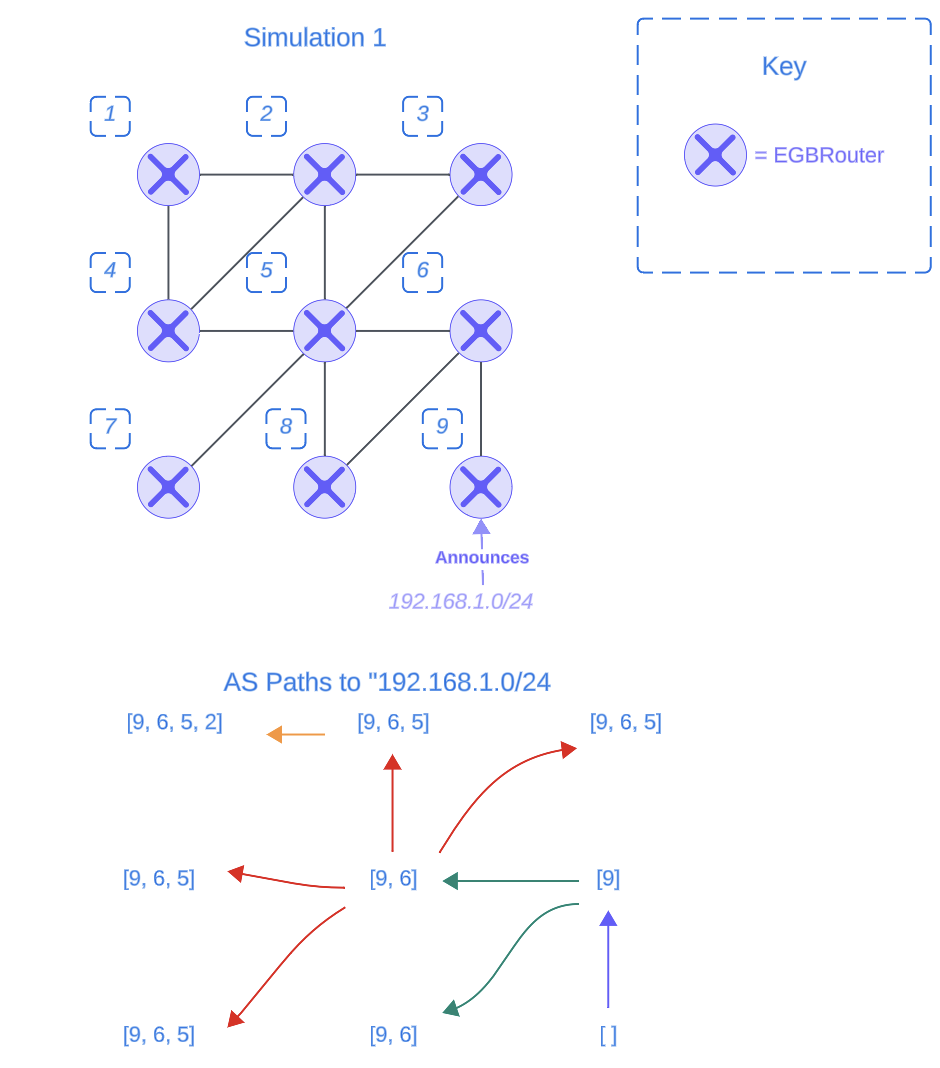
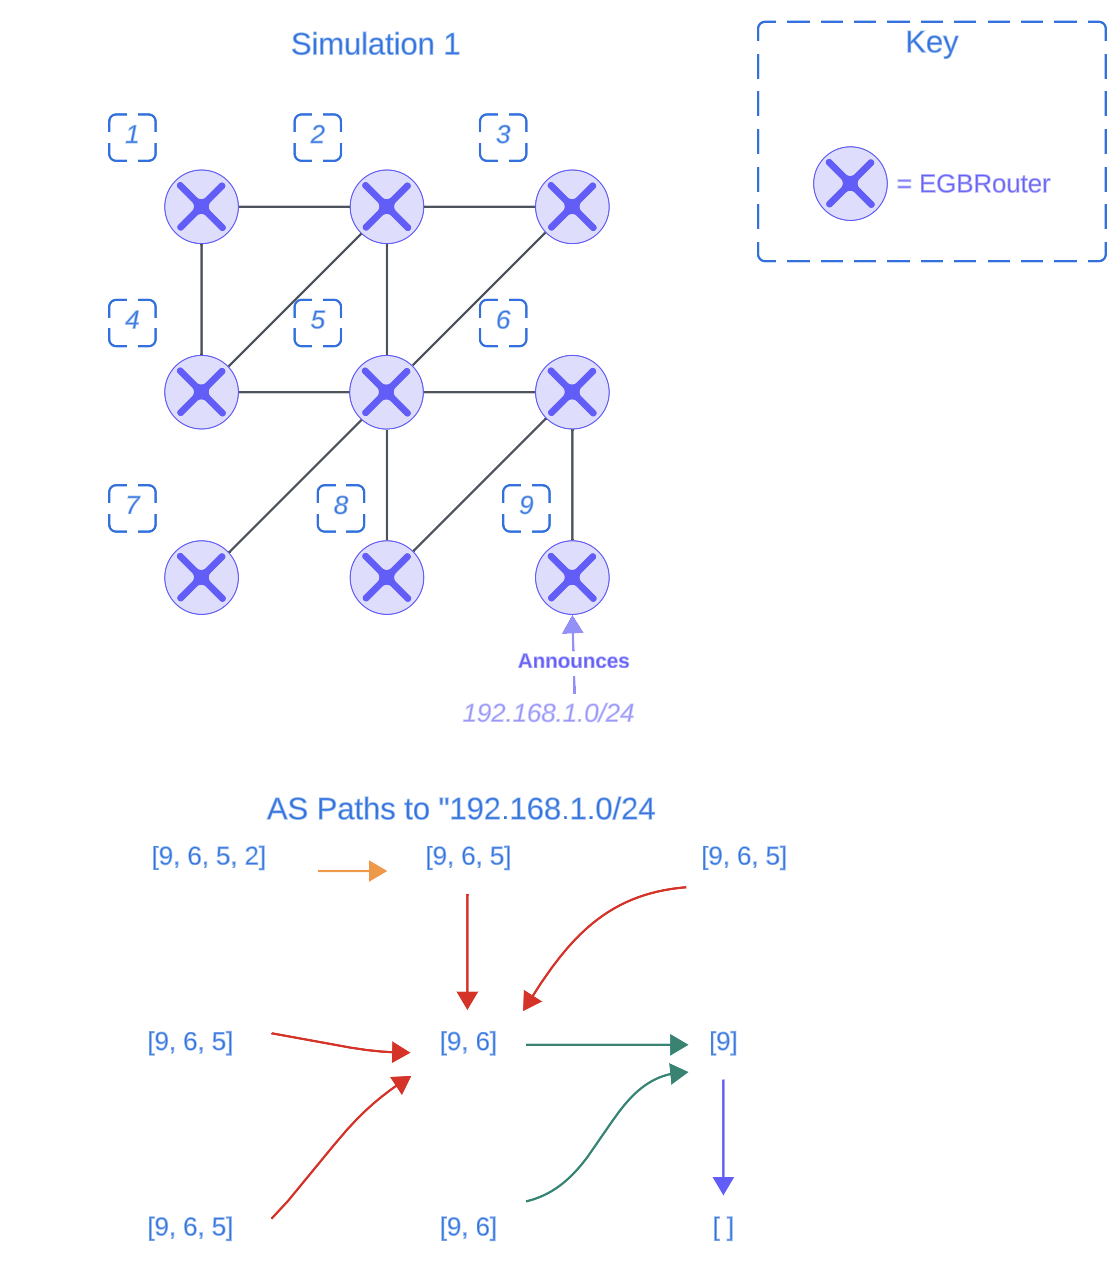
added simulation 2

diff --git a/simulations/sim2.py b/simulations/sim2.py
@@ -2,10 +2,10 @@ from .simulation import *
 from router import *
 import sys
 
-def sim1():
+def sim2():
     """
-    Simulation 1:
-        Three regular routers talk to each other.
+    Simulation 2:
+        Malicious router hijacks route. This simulation is related to sim1.py
     """
     router1 = EBGPRouter('localhost', 1, 5001)
     router2 = EBGPRouter('localhost', 2, 5002)
@@ -50,6 +50,7 @@ def sim1():
     router8.start()
     router9.start()
     router9.advertise_route("192.168.1.0/24")
+    router5.advertise_route("192.168.1.0/24")  # < Malicious Announcement
     print("AS 1:", router1.routing_table["192.168.1.0/24"])
     print("AS 2:", router2.routing_table["192.168.1.0/24"])
     print("AS 3:", router3.routing_table["192.168.1.0/24"])
@@ -61,4 +62,4 @@ def sim1():
     print("AS 9:", router9.routing_table["192.168.1.0/24"])
     print('Simulation ended. Press control + c to end this process.')
 
-Simulation().add(fun=sim1, num_id=1)
+Simulation().add(fun=sim2, num_id=2)

diff --git a/main.py b/main.py
@@ -1,5 +1,5 @@
 from simulations.simulation import *
-import simulations.sim1
+from simulations import sim1, sim2
 import sys
 
 
